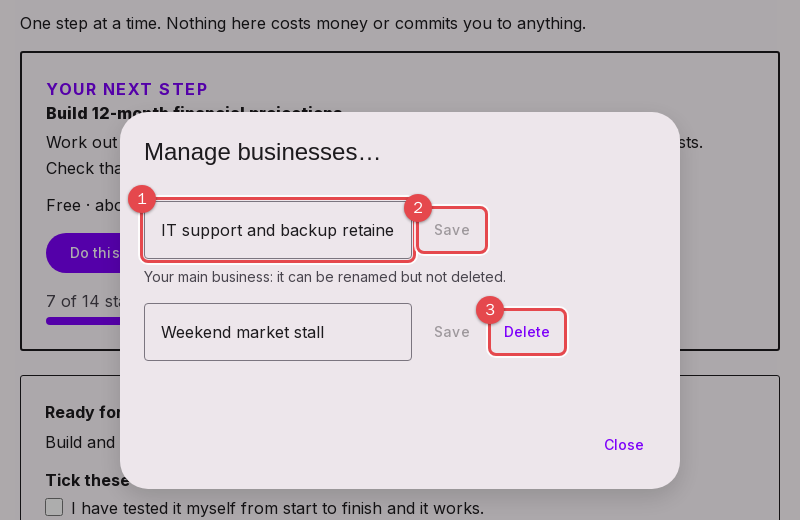
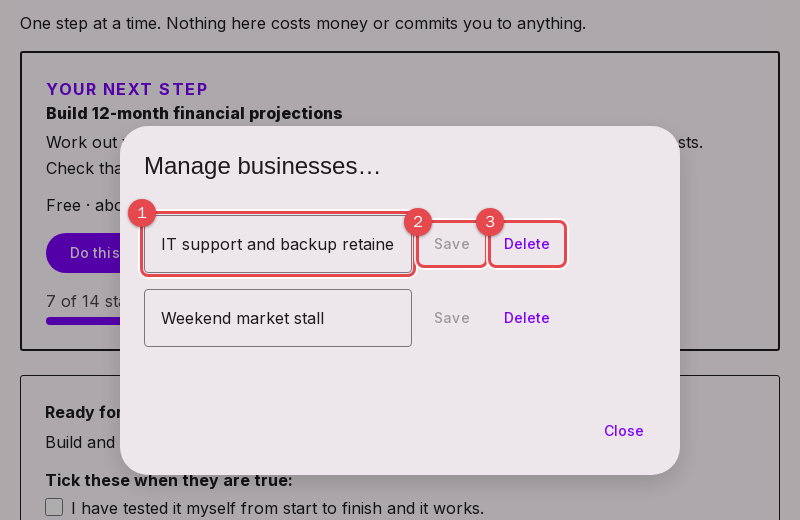
Any business can be deleted; drop the main-business wording

diff --git a/src/components/organisms/__tests__/BusinessSwitcher.test.tsx b/src/components/organisms/__tests__/BusinessSwitcher.test.tsx
@@ -18,14 +18,14 @@ jest.mock('@/hooks/useBusinesses', () => ({
 
 import { BusinessSwitcher } from '../BusinessSwitcher';
 
-const main = { id: 'm', name: 'My business', isDefault: true, createdAt: '' };
-const second = { id: 's', name: 'Acme', isDefault: false, createdAt: '' };
+const first = { id: 'm', name: 'My business', createdAt: '' };
+const second = { id: 's', name: 'Acme', createdAt: '' };
 
 beforeEach(() => {
   jest.clearAllMocks();
   create.mockResolvedValue(second);
   vmState = {
-    businesses: [main, second], active: main, isLoading: false,
+    businesses: [first, second], active: first, isLoading: false,
     open, create, rename, remove,
   };
 });
@@ -57,15 +57,15 @@ describe('BusinessSwitcher', () => {
     await waitFor(() => expect(create).toHaveBeenCalledWith('Acme'));
   });
 
-  it('asks before deleting; never for the main business', async () => {
+  it('asks before deleting, and any business can be deleted', async () => {
     render(<BusinessSwitcher />);
     fireEvent.click(screen.getByTestId('business-switcher'));
     fireEvent.click(screen.getByTestId('business-manage'));
-    expect(screen.getAllByText('delete')).toHaveLength(1);
-    fireEvent.click(screen.getByText('delete'));
+    expect(screen.getAllByText('delete')).toHaveLength(2);
+    fireEvent.click(screen.getAllByText('delete')[0]);
     expect(remove).not.toHaveBeenCalled();
     fireEvent.click(screen.getByTestId('business-delete-confirm'));
-    await waitFor(() => expect(remove).toHaveBeenCalledWith(second));
+    await waitFor(() => expect(remove).toHaveBeenCalledWith(first));
   });
 
   it('renders nothing until the list has loaded', () => {

diff --git a/src/store/slices/businessSlice.ts b/src/store/slices/businessSlice.ts
@@ -1,6 +1,6 @@
 /**
  * Which of the person's businesses is open. Every planning request carries
- * it (X-Business-Id); `null` means the main business. The startup-stage
+ * it (X-Business-Id); `null` means the oldest business. The startup-stage
  * choice (a per-device setting) is remembered per business here so that
  * switching back finds it again.
  * @module store/slices/businessSlice
@@ -9,7 +9,7 @@ import { createSlice, type PayloadAction } from '@reduxjs/toolkit';
 import type { StartupTypeState } from './startupTypeSlice.types';
 
 export interface BusinessState {
-  /** Open business id, or null for the main business. */
+  /** Open business id, or null for the oldest business. */
   activeId: string | null;
   /** Saved startup-stage state of businesses not currently open. */
   startupByBusiness: Record<string, StartupTypeState>;
@@ -39,5 +39,5 @@ const businessSlice = createSlice({
 export const { setActiveBusiness, stashStartup } = businessSlice.actions;
 export default businessSlice.reducer;
 
-/** Key under which the main business's stage state is stashed. */
+/** Key under which the stage state of the id-less (oldest) business is stashed. */
 export const MAIN_KEY = 'main';

diff --git a/src/hooks/useBusinesses.ts b/src/hooks/useBusinesses.ts
@@ -29,13 +29,13 @@ export function useBusinesses() {
   const [renameMut] = useRenameBusinessMutation();
   const [deleteMut] = useDeleteBusinessMutation();
 
-  const main = businesses.find((b) => b.isDefault);
-  // A stored id that no longer exists (deleted elsewhere) means: main.
+  // No stored id, or one that no longer exists (deleted elsewhere),
+  // means the oldest business: what the server opens without an id.
   const active: Business | undefined =
-    businesses.find((b) => b.id === activeId) ?? main;
+    businesses.find((b) => b.id === activeId) ?? businesses[0];
 
   const open = useCallback(
-    (b: Business) => dispatch(switchBusiness(b.isDefault ? null : b.id)),
+    (b: Business) => dispatch(switchBusiness(b.id)),
     [dispatch],
   );
   const create = useCallback(

diff --git a/src/components/organisms/BusinessSwitcher.tsx b/src/components/organisms/BusinessSwitcher.tsx
@@ -43,13 +43,12 @@ const ManageRow: React.FC<{
           onClick={() => void run(() => onRename(b.id, name))}>
           {t('save')}
         </Button>
-        {!b.isDefault && !confirm && (
+        {!confirm && (
           <Button color="error" onClick={() => setConfirm(true)}>
             {t('delete')}
           </Button>
         )}
       </Box>
-      {b.isDefault && <span>{t('mainNote')}</span>}
       {confirm && (
         <Box role="alert"
           sx={{ display: 'flex', gap: 1, alignItems: 'center' }}>

diff --git a/src/store/switchBusiness.ts b/src/store/switchBusiness.ts
@@ -15,7 +15,7 @@ import {
 import type { AppDispatch, RootState } from './store';
 
 /**
- * @param id - Business to open; null opens the main business.
+ * @param id - Business to open; null opens the oldest business.
  * @returns A thunk to dispatch.
  */
 export const switchBusiness =

diff --git a/src/store/api/businessesApi.ts b/src/store/api/businessesApi.ts
@@ -8,8 +8,6 @@ import { baseApi } from './baseApi';
 export interface Business {
   id: string;
   name: string;
-  /** The main business: it cannot be deleted. */
-  isDefault: boolean;
   createdAt: string;
 }
 
